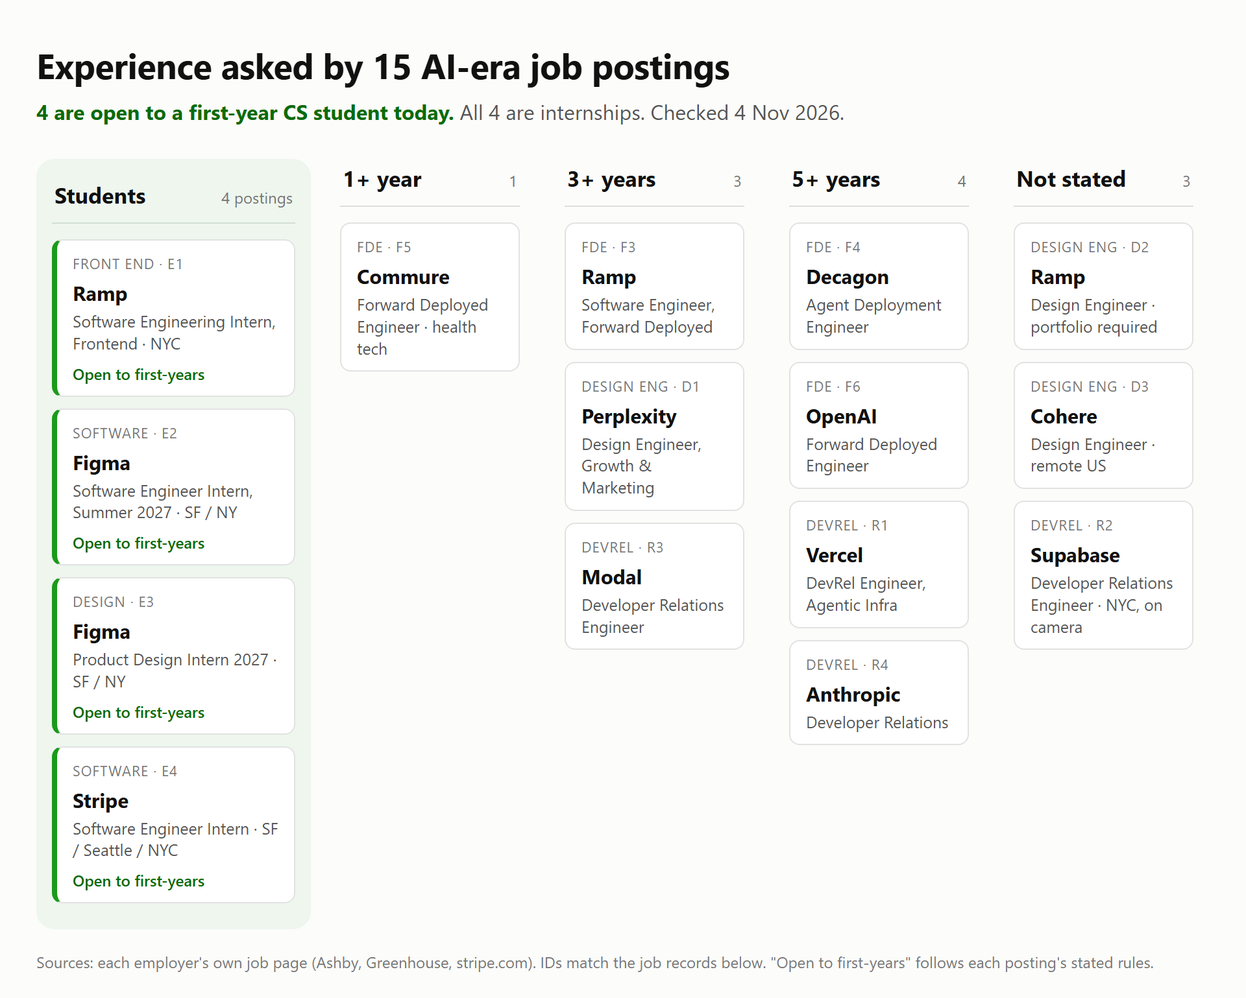
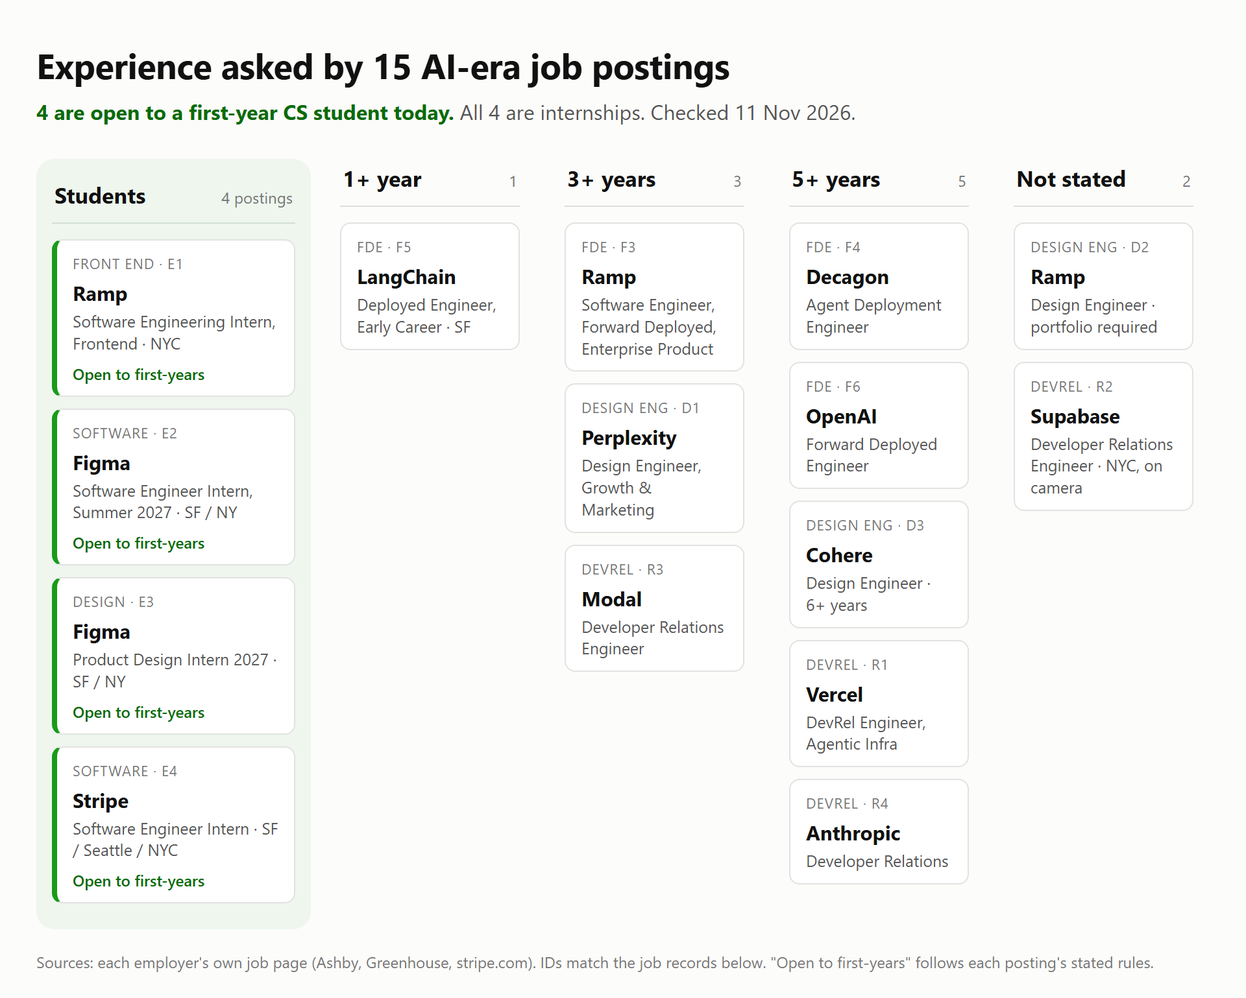
Recheck postings on 11 Nov and link my projects
Two FDE links had died since 4 Nov. Ramp re-listed its role under a new
link (F3), and Commure's posting was taken down, so F5 is now LangChain's
early-career Deployed Engineer. The other 13 postings were rechecked
against each board's public data: Cohere's D3 now asks 6+ years, and a
few locations and dates were updated. The figure and counts follow.

Also links the projects from my CV (client site, LinkUp video, Ascent,
ProdSystems code, Tapyoca) and makes the opening and project list
first-person.

diff --git a/README.md b/README.md
@@ -1,6 +1,6 @@
 # Career Research: Forward Deployed Engineering and Two Alternatives
 
-Individual career and portfolio research for IS117, for class on Thursday 5 Nov 2026. 15 job postings from 12 employers, each opened on the employer's own job page on 4 Nov 2026, with a [screenshot of every posting](https://github.com/mnguyenht/is117-career-research/tree/main/evidence).
+I'm a CS student who builds software for real clients and directs video on the side. This is my IS117 career research into which jobs want that mix, and what I'd still need to show them. It covers 15 job postings from 12 employers, each opened on the employer's own job page on 4 Nov 2026 and rechecked on 11 Nov 2026, with a [screenshot of every posting](https://github.com/mnguyenht/is117-career-research/tree/main/evidence).
 
 **Finding:** All three role families hire people who ship working software for someone else, and most want to see that work before they read a resume. Only internships are open to a first-year today: 4 of the 15 postings. Forward deployed engineering fits the evidence I already have best. My clearest gap is proof that I can measure whether an AI feature works.
 
@@ -19,17 +19,17 @@ Individual career and portfolio research for IS117, for class on Thursday 5 Nov 
 
 ## Where I'm starting
 
-**What I can show now** (summarized from my resume; my own repos are linked):
+**What I can show now** (from my resume, linked wherever there's something public to open):
 
-- **Client build:** a bilingual Next.js landing page for one chapter of an international business networking group (2026). A CRM and a CMS are integrated so staff can update it without a developer. I coordinated local staff and the group's international marketing team on asset rights, and both teams approved the result.
-- **AI tooling:** [bld-package](https://github.com/mnguyenht/bld-package), an open-source Claude Code skill set (25 skills, per its README) covering planning, design, security and deployment.
-- **Applied AI:** a computer-vision fitness app built as a course project. It counts reps in real time, writes messages with an LLM and runs scheduled daily checks.
-- **Mobile and design:** an Android social app built for a design competition, with trust-and-safety and privacy design.
-- **Brand and front end:** the [Standard Issue store](https://standard-issue-is117.vercel.app) and its [competitive research](https://github.com/mnguyenht/is117-tshirt-research) for this course; [ProdSystems](https://prodsystems.vercel.app/) in React, Tailwind and shadcn.
-- **Work:** a paid React internship at a software outsourcing firm (2025); a beta-testing and marketing internship at an ed-tech company (2024).
-- **Content and directing:** a social media personality run as a brand experiment; directing and editing sports videos; public speaking, pitching and competitive debate.
+- **Client build:** [CorporateConnections Hà Nội A](https://www.cchanoia.com/), a bilingual Next.js site I built in 2026 for one chapter of an international business networking group. Zoho CRM and Sanity CMS are wired in so the staff can update it without a developer. I worked with local staff and the group's international marketing team to clear the rights on every asset, and both teams approved the result.
+- **AI tooling:** [bld-package](https://github.com/mnguyenht/bld-package), an open-source Claude Code skill set I built over summer 2026 (25 skills, per its README) for planning, design, security and deployment.
+- **Applied AI:** Pushup Enforcer, a computer-vision fitness app I built as a course final project. It counts reps in real time, and if you miss your daily quota it emails your friends an embarrassing message an LLM wrote about you.
+- **Mobile and design:** LinkUp, an Android app that helps college students find people free for a quick meetup, built with Expo and MapLibre for the Silicon Valley School of Design competition (2026), with trust-and-safety and privacy designed in ([submission video](https://drive.google.com/file/d/1mnC1yCjYFKKtYtU4N2Fh4lmu0Wa_6D2v/view)). Before that, [Ascent](https://github.com/mnguyenht/Ascent), a React Native music app I designed in Figma first (2023–24).
+- **Brand and front end:** the [Standard Issue store](https://standard-issue-is117.vercel.app) and its [competitive research](https://github.com/mnguyenht/is117-tshirt-research) for this course; [ProdSystems](https://prodsystems.vercel.app/) ([code](https://github.com/mnguyenht/prodsystems)), a minimalist productivity toolkit in React, Tailwind and shadcn.
+- **Work:** a paid React internship at Fabbi, a software outsourcing firm, mentored by professional developers (2025); a beta-testing and marketing internship at EUP, an ed-tech company (2024).
+- **Content and directing:** a social media personality I run as a brand experiment; directing and editing sports videos for Blazio Sports, a youth sports-media social enterprise; audio/visual direction for [Tapyoca Tuesdays](https://www.instagram.com/tapyocamusic/), a live music night; public speaking, pitching and competitive debate.
 
-**Constraints:** First-year CS student based near New York, the closest hub. I'm looking at summer 2027 internships; full-time postings here are long-term references. FDE postings list 20 to 50% travel, which I'd need to weigh later.
+**Constraints:** First-year CS student based near New York, the closest hub. I'm looking at summer 2027 internships; full-time postings here are long-term references. FDE postings list 40 to 50% travel, which I'd need to weigh later.
 
 ## Three role families
 
@@ -48,27 +48,30 @@ Each ID links to its screenshot. Pay is copied as posted (currency USD); senior 
 
 | ID | Employer and title | Where | Experience asked | Pay as posted | Open to first-years |
 | --- | --- | --- | --- | --- | --- |
-| [F3](evidence/f3-ramp.jpg) | [Ramp: Software Engineer, Forward Deployed](https://jobs.ashbyhq.com/ramp/29a5da77-37f0-402a-92bc-072778e77ed8) | New York HQ, hybrid | 3+ years preferred | $168K to $285K + equity | No |
+| [F3](evidence/f3-ramp.jpg) | [Ramp: Software Engineer, Forward Deployed, Enterprise Product](https://jobs.ashbyhq.com/ramp/09360e92-fc95-4ba6-9611-dfefd60b13ce) | New York HQ or San Francisco, hybrid | 3+ years preferred | $189K to $330K + equity | No |
 | [F4](evidence/f4-decagon.jpg) | [Decagon: Agent Deployment Engineer](https://jobs.ashbyhq.com/decagon/230ad153-85be-4f7b-a368-5bad59e513e2) | New York City, on-site | 5+ years, technical and customer-facing | $175K to $230K + equity | No |
-| [F5](evidence/f5-commure.jpg) | [Commure: Forward Deployed Engineer](https://jobs.ashbyhq.com/commure/faeeff7f-b1f9-4db2-93ff-99da570f85b0) | Mountain View, CA (also tagged remote); up to 20% travel | Bachelor's plus 1+ year | $130K to $190K + equity | No |
+| [F5](evidence/f5-langchain.jpg) | [LangChain: Deployed Engineer (Early Career- SF)](https://jobs.ashbyhq.com/langchain/0f35c8e1-9318-411d-929b-04c60e6d8522) | San Francisco, on-site; 40% travel | 1 to 3 years | $160K to $185K OTE (base + variable) | No |
 | [F6](evidence/f6-openai.jpg) | [OpenAI: Forward Deployed Engineer (FDE), SF](https://jobs.ashbyhq.com/openai/967f94aa-1706-4dba-ac89-bfbc2c38b688) | San Francisco, 3 office days; up to 50% travel | 5+ years | $185K to $300K + equity | No |
 
 <details>
 <summary><b>F3 to F6: full records</b></summary>
 
-**F3 · Ramp · Software Engineer, Forward Deployed.** Posted 22 Oct 2026. Fintech.
-- Work: deliver software end to end for Ramp's largest customers; scope product specs and build agents that carry them out; work with sales, solutions and account teams to close and grow deals; decide when to build custom and when to push a broader project.
+**F3 · Ramp · Software Engineer, Forward Deployed, Enterprise Product.** Posted 22 Oct 2026. Fintech.
+- Work: deliver software end to end for Ramp's largest customers; scope product specs and build agents that carry them out; work with sales, solutions, customer success and account teams to close deals and activate customers; embed in one product area and decide when to build custom and when to push a broader project.
 - Required: extensive experience building with and for agents; shipping at scale; comfort facing customers. Preferred: 3+ years of software engineering.
 - Work samples: none stated.
+- Re-listed: the link I saved on 4 Nov showed "Job not found" by 11 Nov; Ramp re-posted the role under this title with the same posted date.
 
 **F4 · Decagon · Agent Deployment Engineer.** Posted 13 May 2026. Customer support AI.
 - Work: own architecture and delivery of AI agents for enterprise customers, from scoping through evaluation to production; design agent logic and guardrails; build integrations with customer CRMs, ticketing systems and data pipelines; debug model failures from traces; build evaluation and regression tests.
 - Required: 5+ years in a technical customer-facing role; strong coding and API skills. Preferred: LLM or agent work, enterprise SaaS integrations.
 
-**F5 · Commure · Forward Deployed Engineer.** Posted 26 Jun 2026. Health tech.
-- Work: learn healthcare clients' technical and compliance needs; integrate solutions into their settings; troubleshoot deployments; keep documentation current; travel up to 20% to build and demo on site.
-- Required: bachelor's in CS or engineering; 1+ year of professional software engineering; Python, JavaScript, React, SQL; experience building products from zero.
-- The lowest experience bar among the full-time FDE postings, and its stack matches mine.
+**F5 · LangChain · Deployed Engineer (Early Career).** Posted 7 Oct 2026. AI agent tooling.
+- Work: co-build production AI agents with customers' engineering teams; win pre-sales by designing proofs of concept; help customers deploy and run agent apps, and advise them after the sale; run demos, trainings and workshops; turn field lessons into reusable patterns and example code. 40% travel to customer sites.
+- Required: 1 to 3 years in software, customer or solutions engineering or a similar technical role; strong Python, JavaScript and systems fundamentals; hands-on experience building and deploying agent or LLM apps beyond simple API calls; clear technical communication. Preferred: agents in production (LangChain, LangGraph or similar); LLM evaluation, observability or guardrails; cloud and containers.
+- Work samples: none stated.
+- The lowest experience bar among the FDE postings and the only one aimed at early-career engineers. Its Python and JavaScript stack matches mine.
+- Replaces Commure's FDE posting (F5 until 11 Nov 2026), which was taken down; Commure now lists only a Senior FDE asking 4+ years.
 
 **F6 · OpenAI · Forward Deployed Engineer (FDE), SF.** Posted 11 Sep 2026. Same title as the course guide's J1.
 - Work: lead deployments of frontier models from discovery to production; own delivery across several deployments; build full-stack systems; turn repeated patterns into tools or playbooks; send field feedback to research and product. Success is measured by adoption, workflow impact and eval-driven feedback.
@@ -80,9 +83,9 @@ Each ID links to its screenshot. Pay is copied as posted (currency USD); senior 
 
 | ID | Employer and title | Where | Experience asked | Pay as posted | Open to first-years |
 | --- | --- | --- | --- | --- | --- |
-| [D1](evidence/d1-perplexity.jpg) | [Perplexity: Design Engineer, Growth & Marketing](https://jobs.ashbyhq.com/perplexity/fbbd496b-1d14-4396-b31d-38fbea0dc666) | San Francisco | 3+ years | $180K to $300K + equity | No |
+| [D1](evidence/d1-perplexity.jpg) | [Perplexity: Design Engineer, Growth & Marketing](https://jobs.ashbyhq.com/perplexity/fbbd496b-1d14-4396-b31d-38fbea0dc666) | San Francisco or New York City | 3+ years | $180K to $300K + equity | No |
 | [D2](evidence/d2-ramp.jpg) | [Ramp: Design Engineer](https://jobs.ashbyhq.com/ramp/b68aca53-16c0-4ced-ab1d-e8beb2940b4f) | New York HQ, hybrid | Not stated | $172K to $440K + equity | No |
-| [D3](evidence/d3-cohere.jpg) | [Cohere: Design Engineer](https://jobs.ashbyhq.com/cohere/75765a04-82cb-4d17-ac53-09b156656a7d) | United States, remote | Not stated | $180K to $245K + equity | No |
+| [D3](evidence/d3-cohere.jpg) | [Cohere: Design Engineer](https://jobs.ashbyhq.com/cohere/75765a04-82cb-4d17-ac53-09b156656a7d) | United States, remote | 6+ years | $180K to $245K + equity | No |
 
 <details>
 <summary><b>D1 to D3: full records</b></summary>
@@ -100,6 +103,7 @@ Each ID links to its screenshot. Pay is copied as posted (currency USD); senior 
 
 **D3 · Cohere · Design Engineer.** Posted 9 Oct 2026. Enterprise AI.
 - Work: own the Figma component library for Cohere's design system; build its components in production; keep design tokens in sync between Figma and code (CSS variables, Tailwind config); build Figma-to-code tooling and docs; make the system readable by AI models.
+- Required: 6+ years of design and/or engineering experience, with depth in both.
 - Preferred: Figma plugins, token pipelines, MCP workflows, WCAG, npm packaging.
 - Work samples: none stated.
 
@@ -111,13 +115,13 @@ Each ID links to its screenshot. Pay is copied as posted (currency USD); senior 
 | --- | --- | --- | --- | --- | --- |
 | [R1](evidence/r1-vercel.jpg) | [Vercel: DevRel Engineer, Agentic Infrastructure](https://job-boards.greenhouse.io/vercel/jobs/6122437004) | Hybrid: San Francisco, New York, Austin | 5+ years | $168,000 to $252,000 base (SF) | No |
 | [R2](evidence/r2-supabase.jpg) | [Supabase: Developer Relations Engineer (New York)](https://jobs.ashbyhq.com/supabase/98ae5c78-eab7-4879-b143-96b98e4d0dbb) | Remote, must live in New York | Not stated | Not listed | No |
-| [R3](evidence/r3-modal.jpg) | [Modal: Developer Relations Engineer](https://jobs.ashbyhq.com/modal/546c9eb1-aaf7-47ba-8e9d-0bcd443b3e94) | San Francisco, on-site | 3+ years as a software engineer | $175K to $275K + equity | No |
+| [R3](evidence/r3-modal.jpg) | [Modal: Developer Relations Engineer](https://jobs.ashbyhq.com/modal/546c9eb1-aaf7-47ba-8e9d-0bcd443b3e94) | San Francisco, New York or Stockholm, on-site | 3+ years as a software engineer | $175K to $275K + equity | No |
 | [R4](evidence/r4-anthropic.jpg) | [Anthropic: Developer Relations](https://job-boards.greenhouse.io/anthropic/jobs/5383596008) | San Francisco or New York | 5+ years | $290,000 to $435,000 | No |
 
 <details>
 <summary><b>R1 to R4: full records</b></summary>
 
-**R1 · Vercel · DevRel Engineer, Agentic Infrastructure.** Updated 30 Oct 2026.
+**R1 · Vercel · DevRel Engineer, Agentic Infrastructure.** Updated 7 Nov 2026.
 - Work: build agents and apps on Vercel's AI products before launch; turn them into demos, templates and open-source projects; teach through writing, talks, video and live coding; feed rough edges back to product.
 - Required: shipped AI apps or agents; TypeScript, Next.js and the AI SDK; a public body of work; fast demo building.
 - Work samples: **required.** Applicants must link something they made that taught developers (a talk, repo, post or video). Applications without one are not considered.
@@ -179,16 +183,16 @@ Each ID links to its screenshot. Pay is copied as posted (currency USD); senior 
 | Build demos or prototypes | F5, F6, D2, R1 to R4, E2, E3 | 8 | A working demo with a walkthrough is the common currency. Video is a strength I can use here. |
 | Show public work before the interview | Required: D1, D2, R1. Preferred: R2, R3 | 5 | Design engineering and DevRel screen on it. I have repos and live sites but no single page tying them together. |
 | Use AI coding tools with judgment | D1, D2, E2, E4 | 4 | Stripe asks interns to check and correct what AI tools produce. My case studies need an AI-use section that shows this. |
-| Evaluate AI output with tests | F4, F6 | 2 | Rare, and only in senior FDE postings, but it is exactly what a reviewer would ask about my toolkit's savings claims. |
+| Evaluate AI output with tests | F4, F6; a plus in F5 | 2 | Required only in senior FDE postings, and even the early-career one (F5) lists it as a plus. It is exactly what a reviewer would ask about my toolkit's savings claims. |
 | Own a design system, Figma to code | D1, D2, D3 | 3 | The design engineer signature. I've used design systems but haven't contributed to one. |
 
 ## Compare and choose
 
 | | Forward Deployed Engineer | Design Engineer | Developer Relations |
 | --- | --- | --- | --- |
-| Industries in my sample | Fintech, health tech, support AI, frontier AI | AI search, fintech, enterprise AI | Developer platforms, AI infrastructure, frontier AI |
-| Experience asked | 1 to 5+ years | 3+ years or not stated; portfolio required | 3 to 5+ years, or not stated (R2) |
-| Location and travel | NYC, SF; 20 to 50% travel in 2 postings | NYC, SF, remote | NYC, SF; on camera and at events |
+| Industries in my sample | Fintech, agent tooling, support AI, frontier AI | AI search, fintech, enterprise AI | Developer platforms, AI infrastructure, frontier AI |
+| Experience asked | 1 to 5+ years | 3 to 6+ years, or not stated (D2); portfolio required | 3 to 5+ years, or not stated (R2) |
+| Location and travel | NYC, SF; 40 to 50% travel in 2 postings | NYC, SF, remote | NYC, SF; on camera and at events |
 | Evidence I have | Client build with CRM and CMS, applied-AI project, open-source toolkit | Figma plus React work, Standard Issue store, a design-competition app | Toolkit that teaches builders, video directing, content brand experiment, pitching |
 | Biggest gap | Evaluation; integration depth beyond a landing page | A portfolio site with interaction craft | Developer-facing teaching: a tutorial, a talk or a demo repo |
 | Open to first-years now | No FDE internship in this sample; E1 is a front-end route in | Through E1 (front end) or E3 (design) | No DevRel internship found |
@@ -206,8 +210,8 @@ Each ID links to its screenshot. Pay is copied as posted (currency USD); senior 
 | Employer need | Records | What I can show now | Gap | Artifact to build | How a reviewer checks it |
 | --- | --- | --- | --- | --- | --- |
 | Scope a customer's problem | F3 to F6 | The networking-group site: two teams with different needs, asset rights cleared, both approved | Decisions aren't written down anywhere | Case study: problem, constraints, alternatives, what I built, what I'd change | Read it alongside screenshots of the shipped site |
-| Integrate with customer systems | F4, F5 | Zoho CRM and Sanity CMS on the same build | One integration, front-end side only | A data-flow diagram inside the case study | Diagram, plus code excerpts (the client repo stays private) |
-| Evaluate AI output | F4, F6 | Nothing yet. bld-package's README claims "up to 80%" less context and "up to 75%" fewer tokens, with no published method | This is the gap | Benchmark repo: the same tasks run with and without bld-package, tokens logged, method and raw results public | Re-run the script and compare with the published logs |
+| Integrate with customer systems | F4 | Zoho CRM and Sanity CMS on the same build | One integration, front-end side only | A data-flow diagram inside the case study | Diagram, plus code excerpts (the client repo stays private) |
+| Evaluate AI output | F4, F6; F5 as a plus | Nothing yet. bld-package's README claims "up to 80%" less context and "up to 75%" fewer tokens, with no published method | This is the gap | Benchmark repo: the same tasks run with and without bld-package, tokens logged, method and raw results public | Re-run the script and compare with the published logs |
 | Build with LLMs or agents for a user | F3 to F6, D2, R1 | bld-package (for builders); the fitness app (LLM-written messages) | Nothing built for a non-technical user's task | Later: a small agent workflow for a real campus organization, with a rule-based baseline and a human review step | Demo, repo and test results against the baseline |
 | Demo and explain | F5, F6, R1 to R4 | The fitness app's demo video and spec; film and editing work | No developer-facing demo | A 3-minute walkthrough of the benchmark | Watch it |
 | Public work, one place | D1, D2, R1, R2, R3 | GitHub repos, live sites | No portfolio page with a stated target | Portfolio page: target at the top, the two case studies first | A classmate finds my target and strongest proof in under a minute |
@@ -248,20 +252,20 @@ Does freelance client work like my networking-group site count as the customer-f
 
 Classmates review this research by [opening an issue](https://github.com/mnguyenht/is117-career-research/issues/new?template=peer-review.md): one observation, why it matters and a suggested next step. I answer each issue in its thread with a decision (implement, investigate, defer or decline) and the reason. An accepted change lands in a commit that names the issue number; the issue then links that commit and says how the change was checked, and the reviewer re-checks it before it closes. Unfinished work stays open with a next step.
 
-**Status, 5 Nov 2026:** no peer issues yet.
+**Status, 11 Nov 2026:** 3 peer issues open ([see issues](https://github.com/mnguyenht/is117-career-research/issues)).
 
 ## Method, AI use and limits
 
-- **How:** Claude Code (an AI assistant) ran two research subagents that found postings through each employer's public job data (Greenhouse, Lever and Ashby). Claude then re-fetched every posting from the employer's own source and checked the subagents' notes against it. Headless Chromium (Playwright 1.64) saved a full-page screenshot of each posting. Nothing was applied to, no accounts were created and no one was contacted.
+- **How:** Claude Code (an AI assistant) ran two research subagents that found postings through each employer's public job data (Greenhouse, Lever and Ashby). Claude then re-fetched every posting from the employer's own source and checked the subagents' notes against it. On 11 Nov 2026 Claude rechecked every posting through each job board's public data: 13 were still open (small updates are recorded above), and two FDE postings had closed, so F3 now points to Ramp's re-listing and F5 to a LangChain posting. Headless Chromium (Playwright 1.64) saved a full-page screenshot of each posting. Nothing was applied to, no accounts were created and no one was contacted.
 - **What the AI did:** found the postings, summarized them in its own words, counted repeated capabilities, drafted the comparison, the target statement and the plan, and made the figure.
-- **What I provided:** the course guide and my CV. The target is provisional and mine to confirm.
-- **Limits:** 15 postings from 12 employers describe this sample, not the job market. Palantir postings were left out on purpose: I chose not to consider the company because of the work it does. Capability counts come from keyword matches in each posting's role text, then read by hand; a posting can need a skill it doesn't name. "Open to first-years" reflects each posting's stated rules, not a personal eligibility check. Pay figures are what each posting lists, not offers. F5 is tagged remote but lists a Mountain View location, and the posting doesn't explain which applies. Personal contact details are left out on purpose. Screenshots of job pages are kept for study and commentary.
+- **What I provided:** the course guide and my CV with its project links. I chose the target: FDE first, design engineering second.
+- **Limits:** 15 postings from 12 employers describe this sample, not the job market. Palantir postings were left out on purpose: I chose not to consider the company because of the work it does. Capability counts come from keyword matches in each posting's role text, then read by hand; a posting can need a skill it doesn't name. "Open to first-years" reflects each posting's stated rules, not a personal eligibility check. Pay figures are what each posting lists, not offers. Personal contact details are left out on purpose. Screenshots of job pages are kept for study and commentary.
 
 ## Sources
 
-All opened 4 Nov 2026 on the employer's own job page. Screenshots are in [evidence/](https://github.com/mnguyenht/is117-career-research/tree/main/evidence).
+All opened 4 Nov 2026 and rechecked 11 Nov 2026 on the employer's own job page. Screenshots are in [evidence/](https://github.com/mnguyenht/is117-career-research/tree/main/evidence).
 
-- **FDE:** [F3 Ramp](https://jobs.ashbyhq.com/ramp/29a5da77-37f0-402a-92bc-072778e77ed8), [F4 Decagon](https://jobs.ashbyhq.com/decagon/230ad153-85be-4f7b-a368-5bad59e513e2), [F5 Commure](https://jobs.ashbyhq.com/commure/faeeff7f-b1f9-4db2-93ff-99da570f85b0), [F6 OpenAI](https://jobs.ashbyhq.com/openai/967f94aa-1706-4dba-ac89-bfbc2c38b688)
+- **FDE:** [F3 Ramp](https://jobs.ashbyhq.com/ramp/09360e92-fc95-4ba6-9611-dfefd60b13ce), [F4 Decagon](https://jobs.ashbyhq.com/decagon/230ad153-85be-4f7b-a368-5bad59e513e2), [F5 LangChain](https://jobs.ashbyhq.com/langchain/0f35c8e1-9318-411d-929b-04c60e6d8522), [F6 OpenAI](https://jobs.ashbyhq.com/openai/967f94aa-1706-4dba-ac89-bfbc2c38b688)
 - **Design Engineer:** [D1 Perplexity](https://jobs.ashbyhq.com/perplexity/fbbd496b-1d14-4396-b31d-38fbea0dc666), [D2 Ramp](https://jobs.ashbyhq.com/ramp/b68aca53-16c0-4ced-ab1d-e8beb2940b4f), [D3 Cohere](https://jobs.ashbyhq.com/cohere/75765a04-82cb-4d17-ac53-09b156656a7d)
 - **Developer Relations:** [R1 Vercel](https://job-boards.greenhouse.io/vercel/jobs/6122437004), [R2 Supabase](https://jobs.ashbyhq.com/supabase/98ae5c78-eab7-4879-b143-96b98e4d0dbb), [R3 Modal](https://jobs.ashbyhq.com/modal/546c9eb1-aaf7-47ba-8e9d-0bcd443b3e94), [R4 Anthropic](https://job-boards.greenhouse.io/anthropic/jobs/5383596008)
 - **Entry paths:** [E1 Ramp](https://jobs.ashbyhq.com/ramp/a13ae586-f4cb-4385-8822-c42b9b54ed74), [E2 Figma](https://job-boards.greenhouse.io/figma/jobs/6143238004), [E3 Figma](https://job-boards.greenhouse.io/figma/jobs/6180005004), [E4 Stripe](https://stripe.com/careers/listing/software-engineer-intern-summer-or-winter/8128745)
